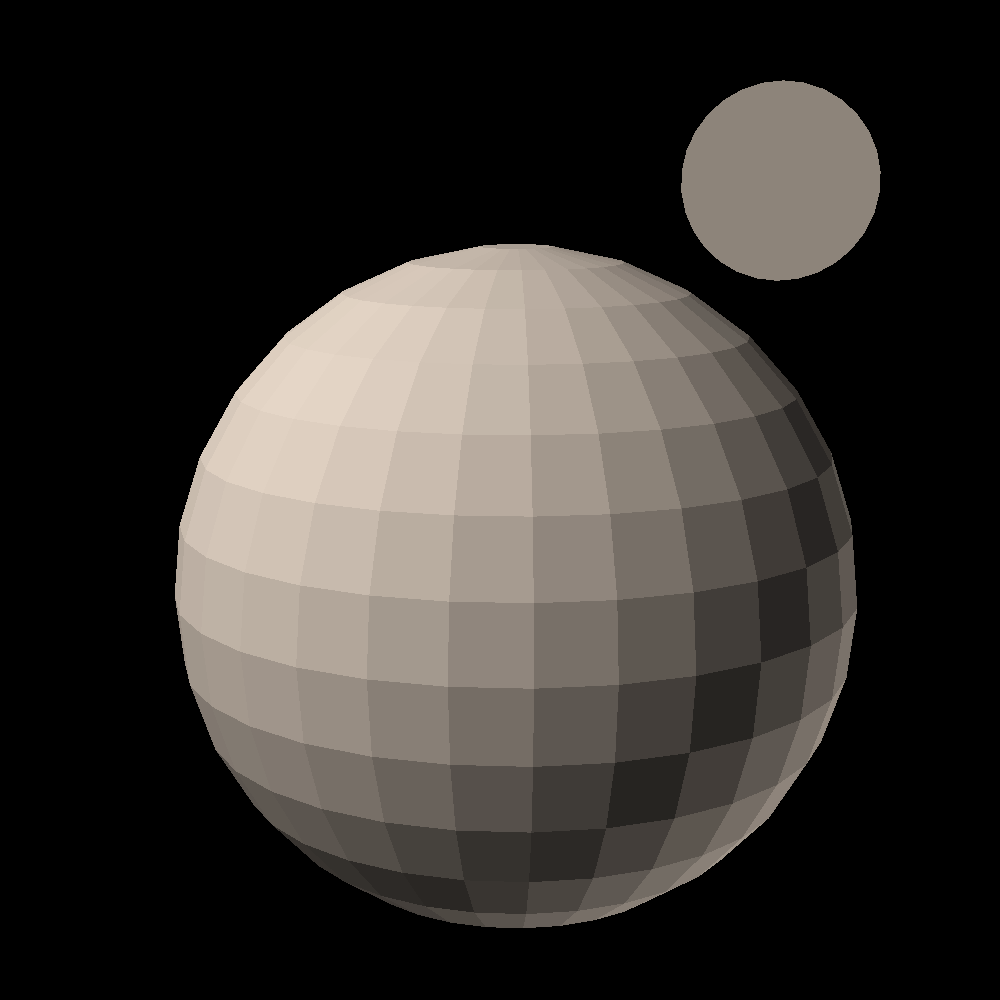
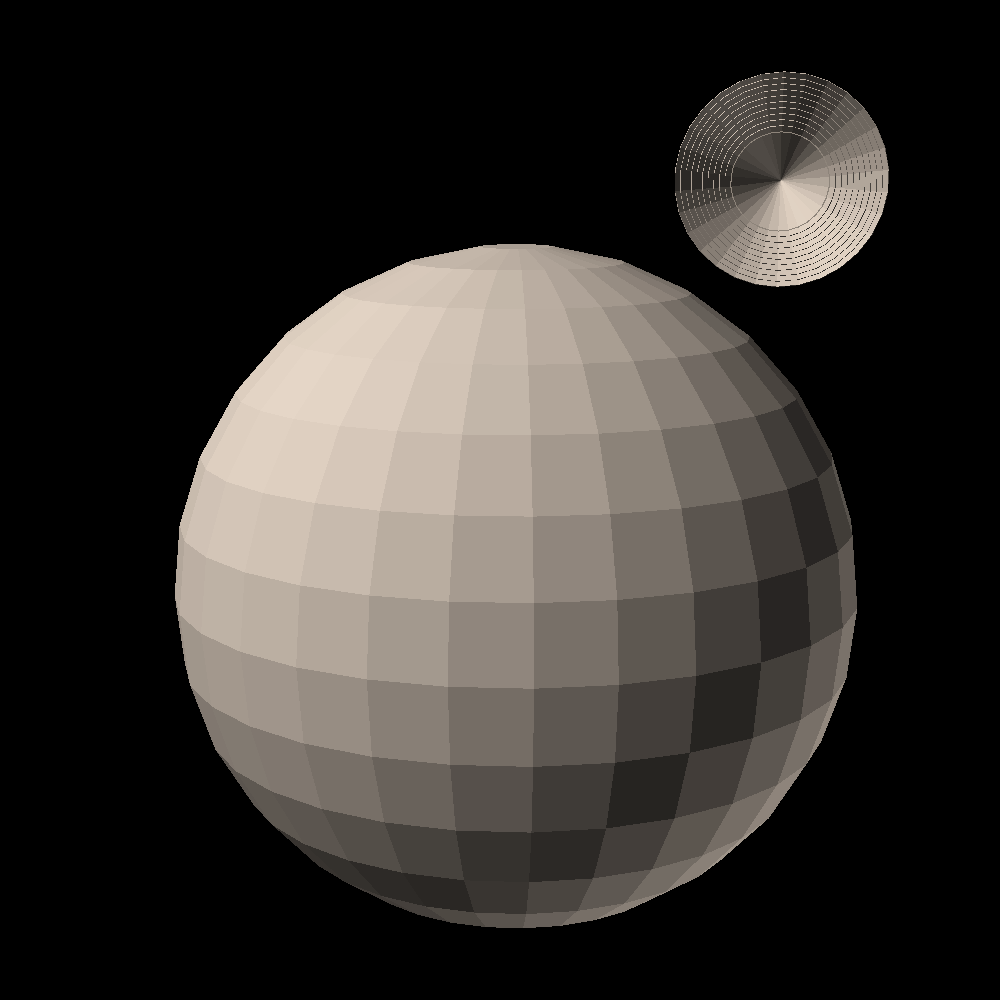
Remodeled venus solar shade
- remodeled venus solar shade
- specified pressure and temperature for venus in a table

Changed region(s): [[0.651, 0.062, 0.899, 0.31]]

diff --git a/pages/venus.html b/pages/venus.html
@@ -19,12 +19,12 @@ Venus is a partially terraformed planet.
     <th colspan=2>Planetary information</th>
   </tr>
   <tr>
-    <td>surface population</td>
-    <td>&approx;?</td>
+    <td>surface temperature</td>
+    <td>192K (-81<sup>o</sup>C)</td>
   </tr>
   <tr>
-    <td>total population</td>
-    <td>todo</td>
+    <td>surface pressure</td>
+    <td>284kPa (2.8 atm)</td>
   </tr>
 </table>
 
